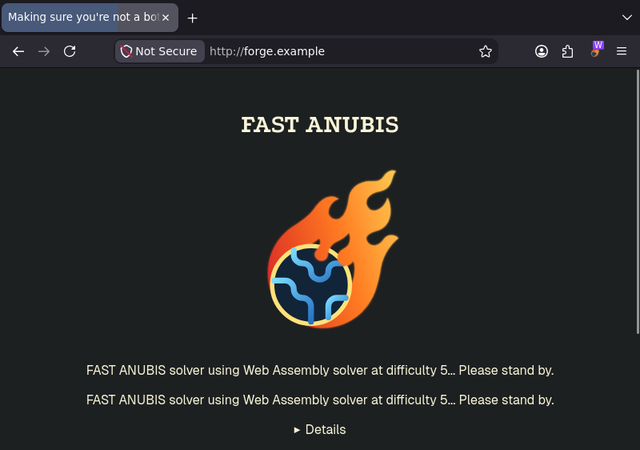
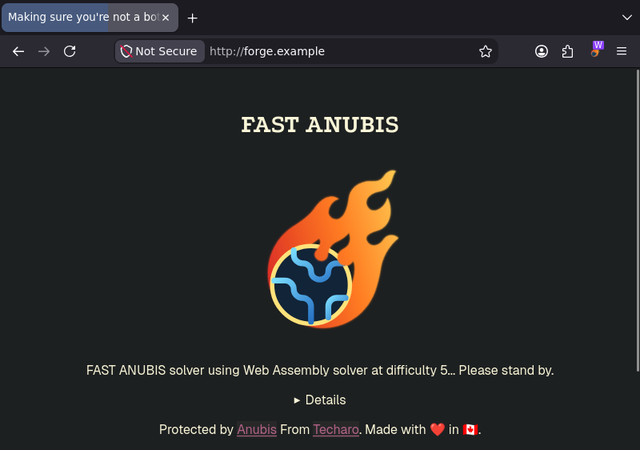
fix: show the solver status once when page JavaScript is off
With page JavaScript off, Anubis' #status, script-error box and
<noscript> notice all render, and the content script wrote the solver
message into each, so it appeared three times. It now uses the first
placeholder present and hides the others. The no-JS live test checks
for a single copy, and the demo capture is re-recorded.

Changed region(s): [[0.125, 0.8711, 0.875, 0.9022], [0.25, 0.9333, 0.75, 0.9956], [0.1562, 0.0, 0.1875, 0.0933]]

diff --git a/extension/content.ts b/extension/content.ts
@@ -40,18 +40,20 @@ function showSolverStatus(solver: string, difficulty?: number): void {
   }
   const title = document.querySelector<HTMLElement>('#title');
   if (title) title.textContent = 'FAST ANUBIS';
-  const status = document.querySelector<HTMLElement>('#status');
-  if (status) {
-    status.textContent = message;
-    status.style.display = 'block';
-  }
-  const scriptError = document.querySelector<HTMLElement>('#anubis-script-error');
-  if (scriptError) {
-    scriptError.textContent = message;
-    scriptError.style.display = 'block';
-  }
-  const noScriptMessage = document.querySelector<HTMLElement>('noscript p');
-  if (noScriptMessage) noScriptMessage.textContent = message;
+  // Anubis has several places for this message: #status, the script-error box
+  // and a <noscript> notice. With page JavaScript off all of them render, so
+  // show the message in the first one present and hide the rest.
+  const placeholders = ['#status', '#anubis-script-error', 'noscript p']
+    .map((selector) => document.querySelector<HTMLElement>(selector))
+    .filter((element): element is HTMLElement => element !== null);
+  placeholders.forEach((element, index) => {
+    if (index === 0) {
+      element.textContent = message;
+      element.style.display = 'block';
+    } else {
+      element.style.display = 'none';
+    }
+  });
   console.info('[Anubis Fast] challenge display updated', { solver: label, difficulty, message });
 }
 

diff --git a/tests/live/noJavaScript.live.test.ts b/tests/live/noJavaScript.live.test.ts
@@ -55,6 +55,7 @@ describe('page JavaScript disabled', () => {
 			// The challenge page comes first, relabelled by the content script.
 			let sawChallenge = false
 			let sawStatus = false
+			let statusCopies = 0
 			const deadline = Date.now() + 60_000
 			while (Date.now() < deadline) {
 				const page = await selectedPage(session)
@@ -62,6 +63,7 @@ describe('page JavaScript disabled', () => {
 					sawChallenge = true
 					const text = await pageText(session).catch(() => '')
 					if (text.includes('FAST ANUBIS')) sawStatus = true
+					statusCopies = Math.max(statusCopies, text.split('FAST ANUBIS solver using').length - 1)
 				}
 				if (page.title === SITE_TITLE && !page.loading) break
 				await new Promise((done) => setTimeout(done, 50))
@@ -69,6 +71,8 @@ describe('page JavaScript disabled', () => {
 			await waitForTitle(session, SITE_TITLE, 1_000)
 			expect(sawChallenge).toBe(true)
 			expect(sawStatus).toBe(true)
+			// One status line, not one per Anubis placeholder (#status, the script-error box, <noscript>).
+			expect(statusCopies).toBe(1)
 			expect((await selectedPage(session)).url).toBe(SITE_URL)
 			expect(await pageText(session)).toContain('Anubis Fast solved its proof-of-work challenge')
 			const cookies = await session.chrome(`
